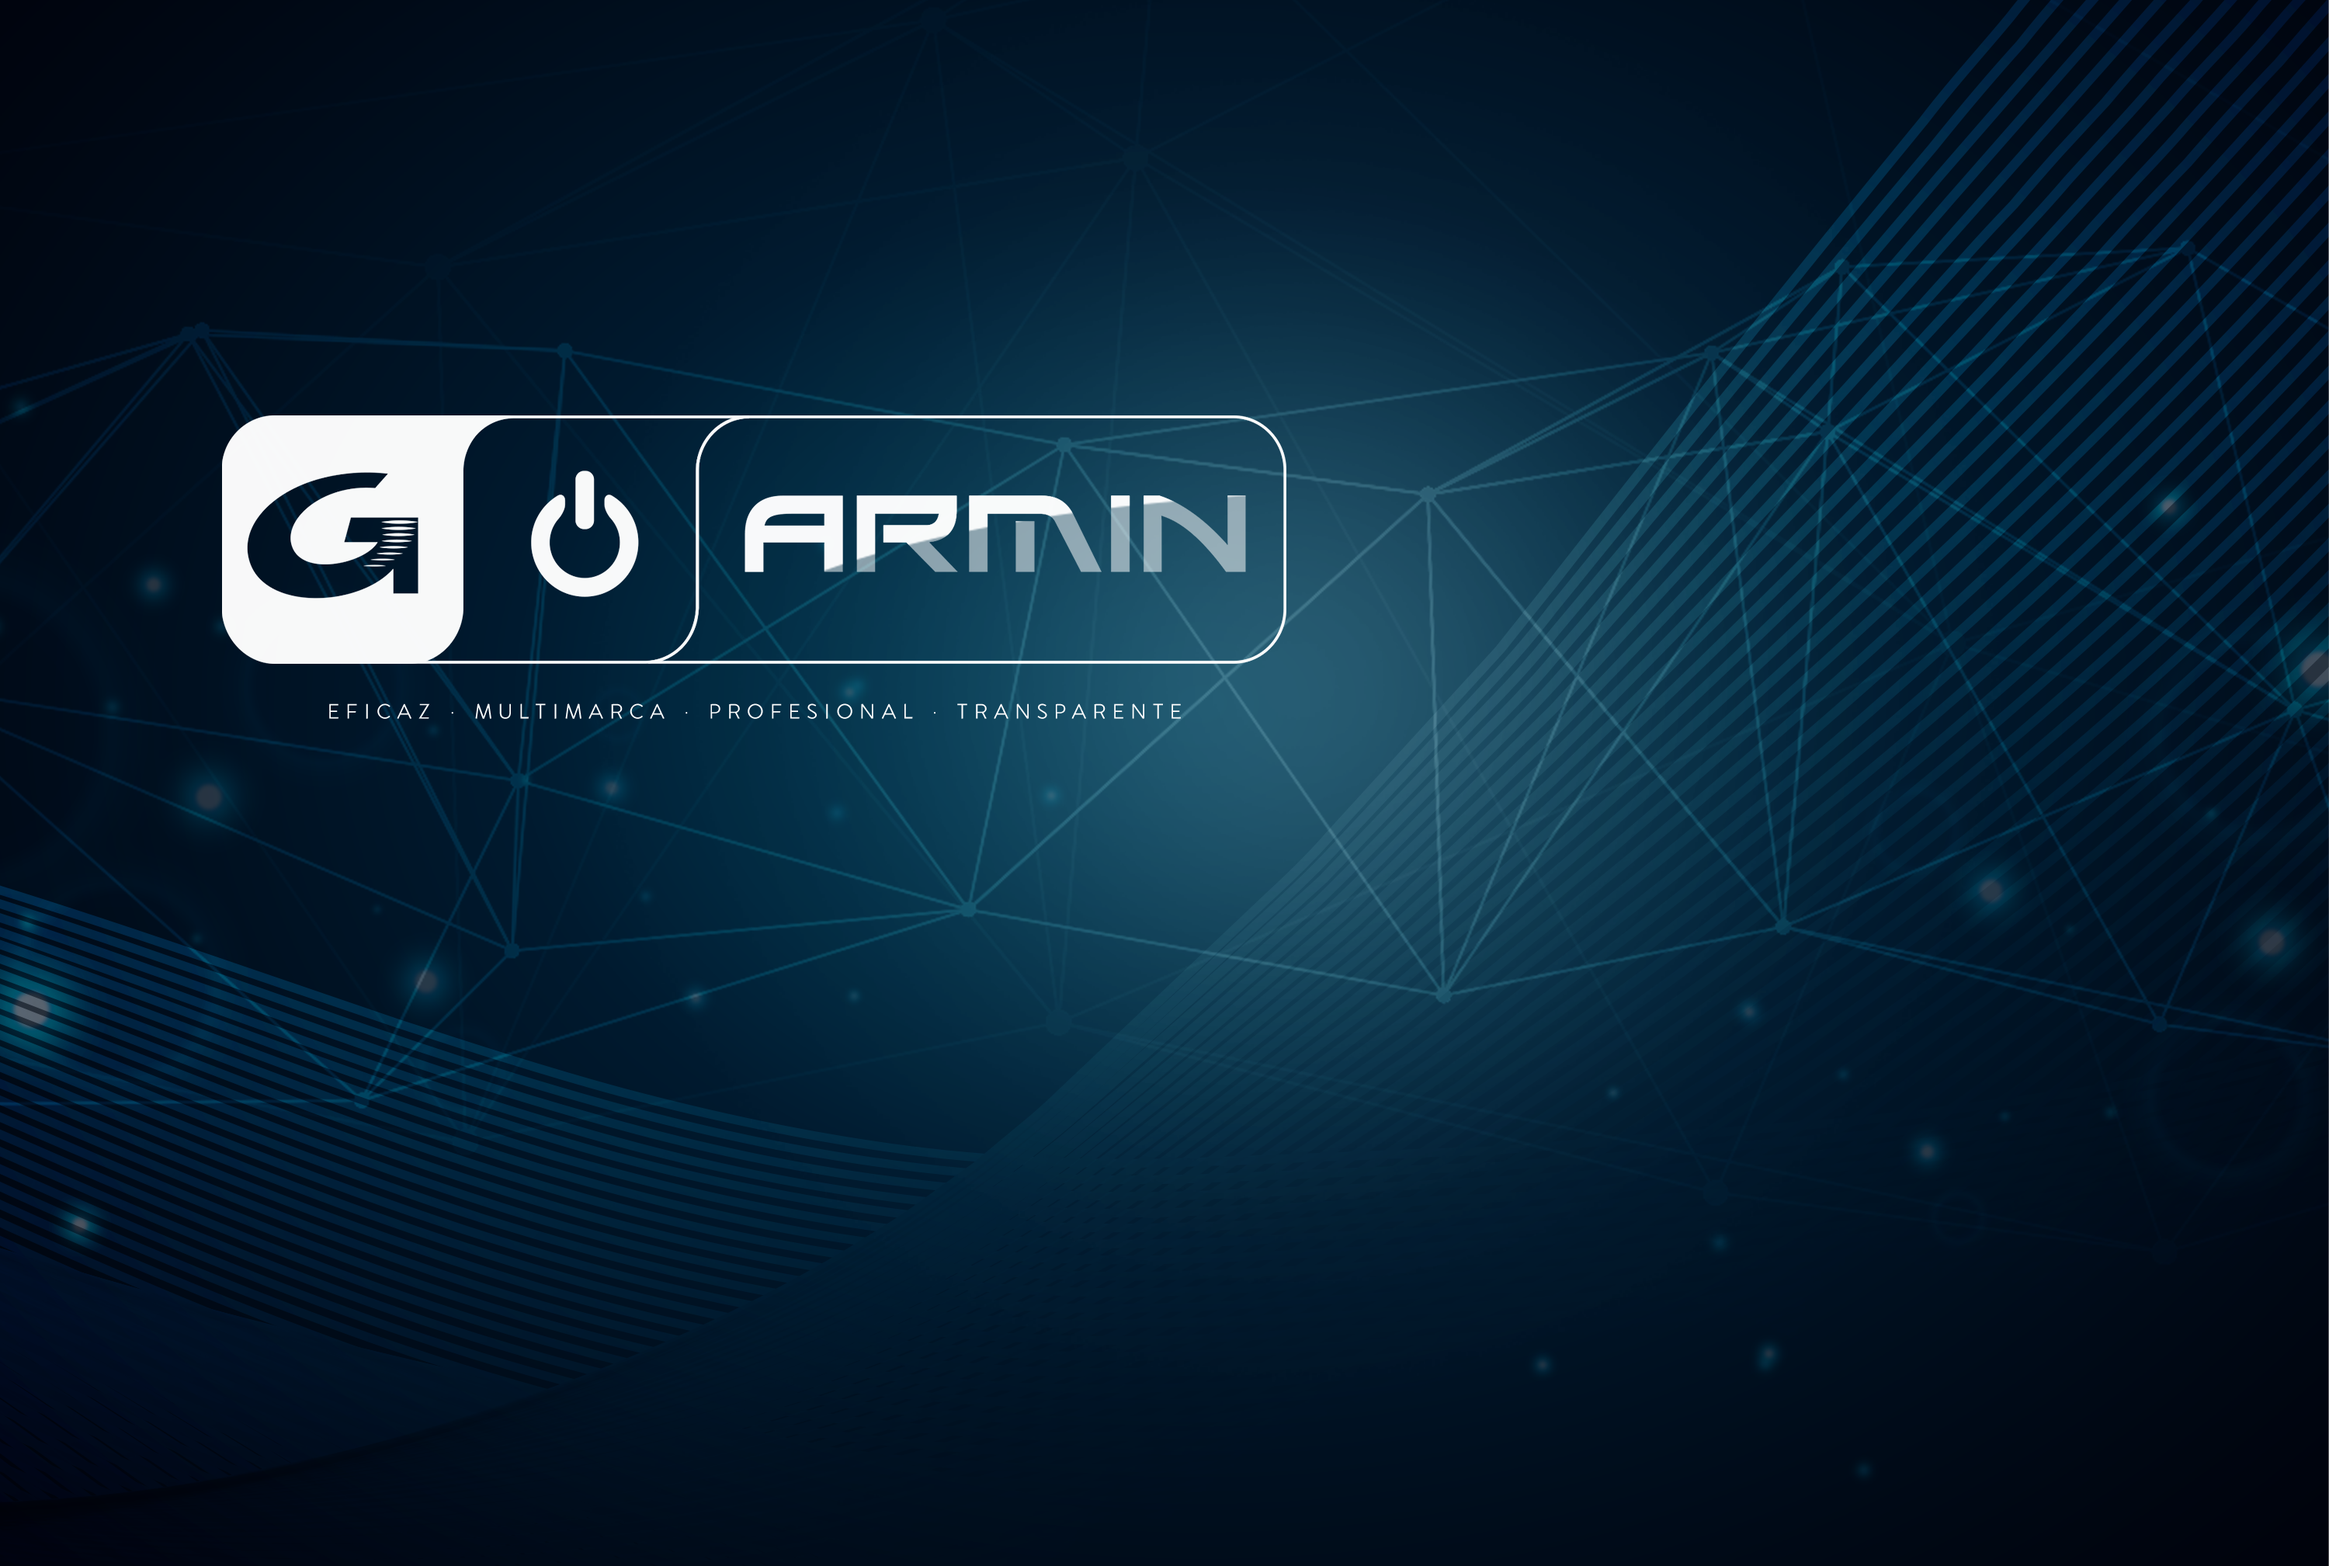
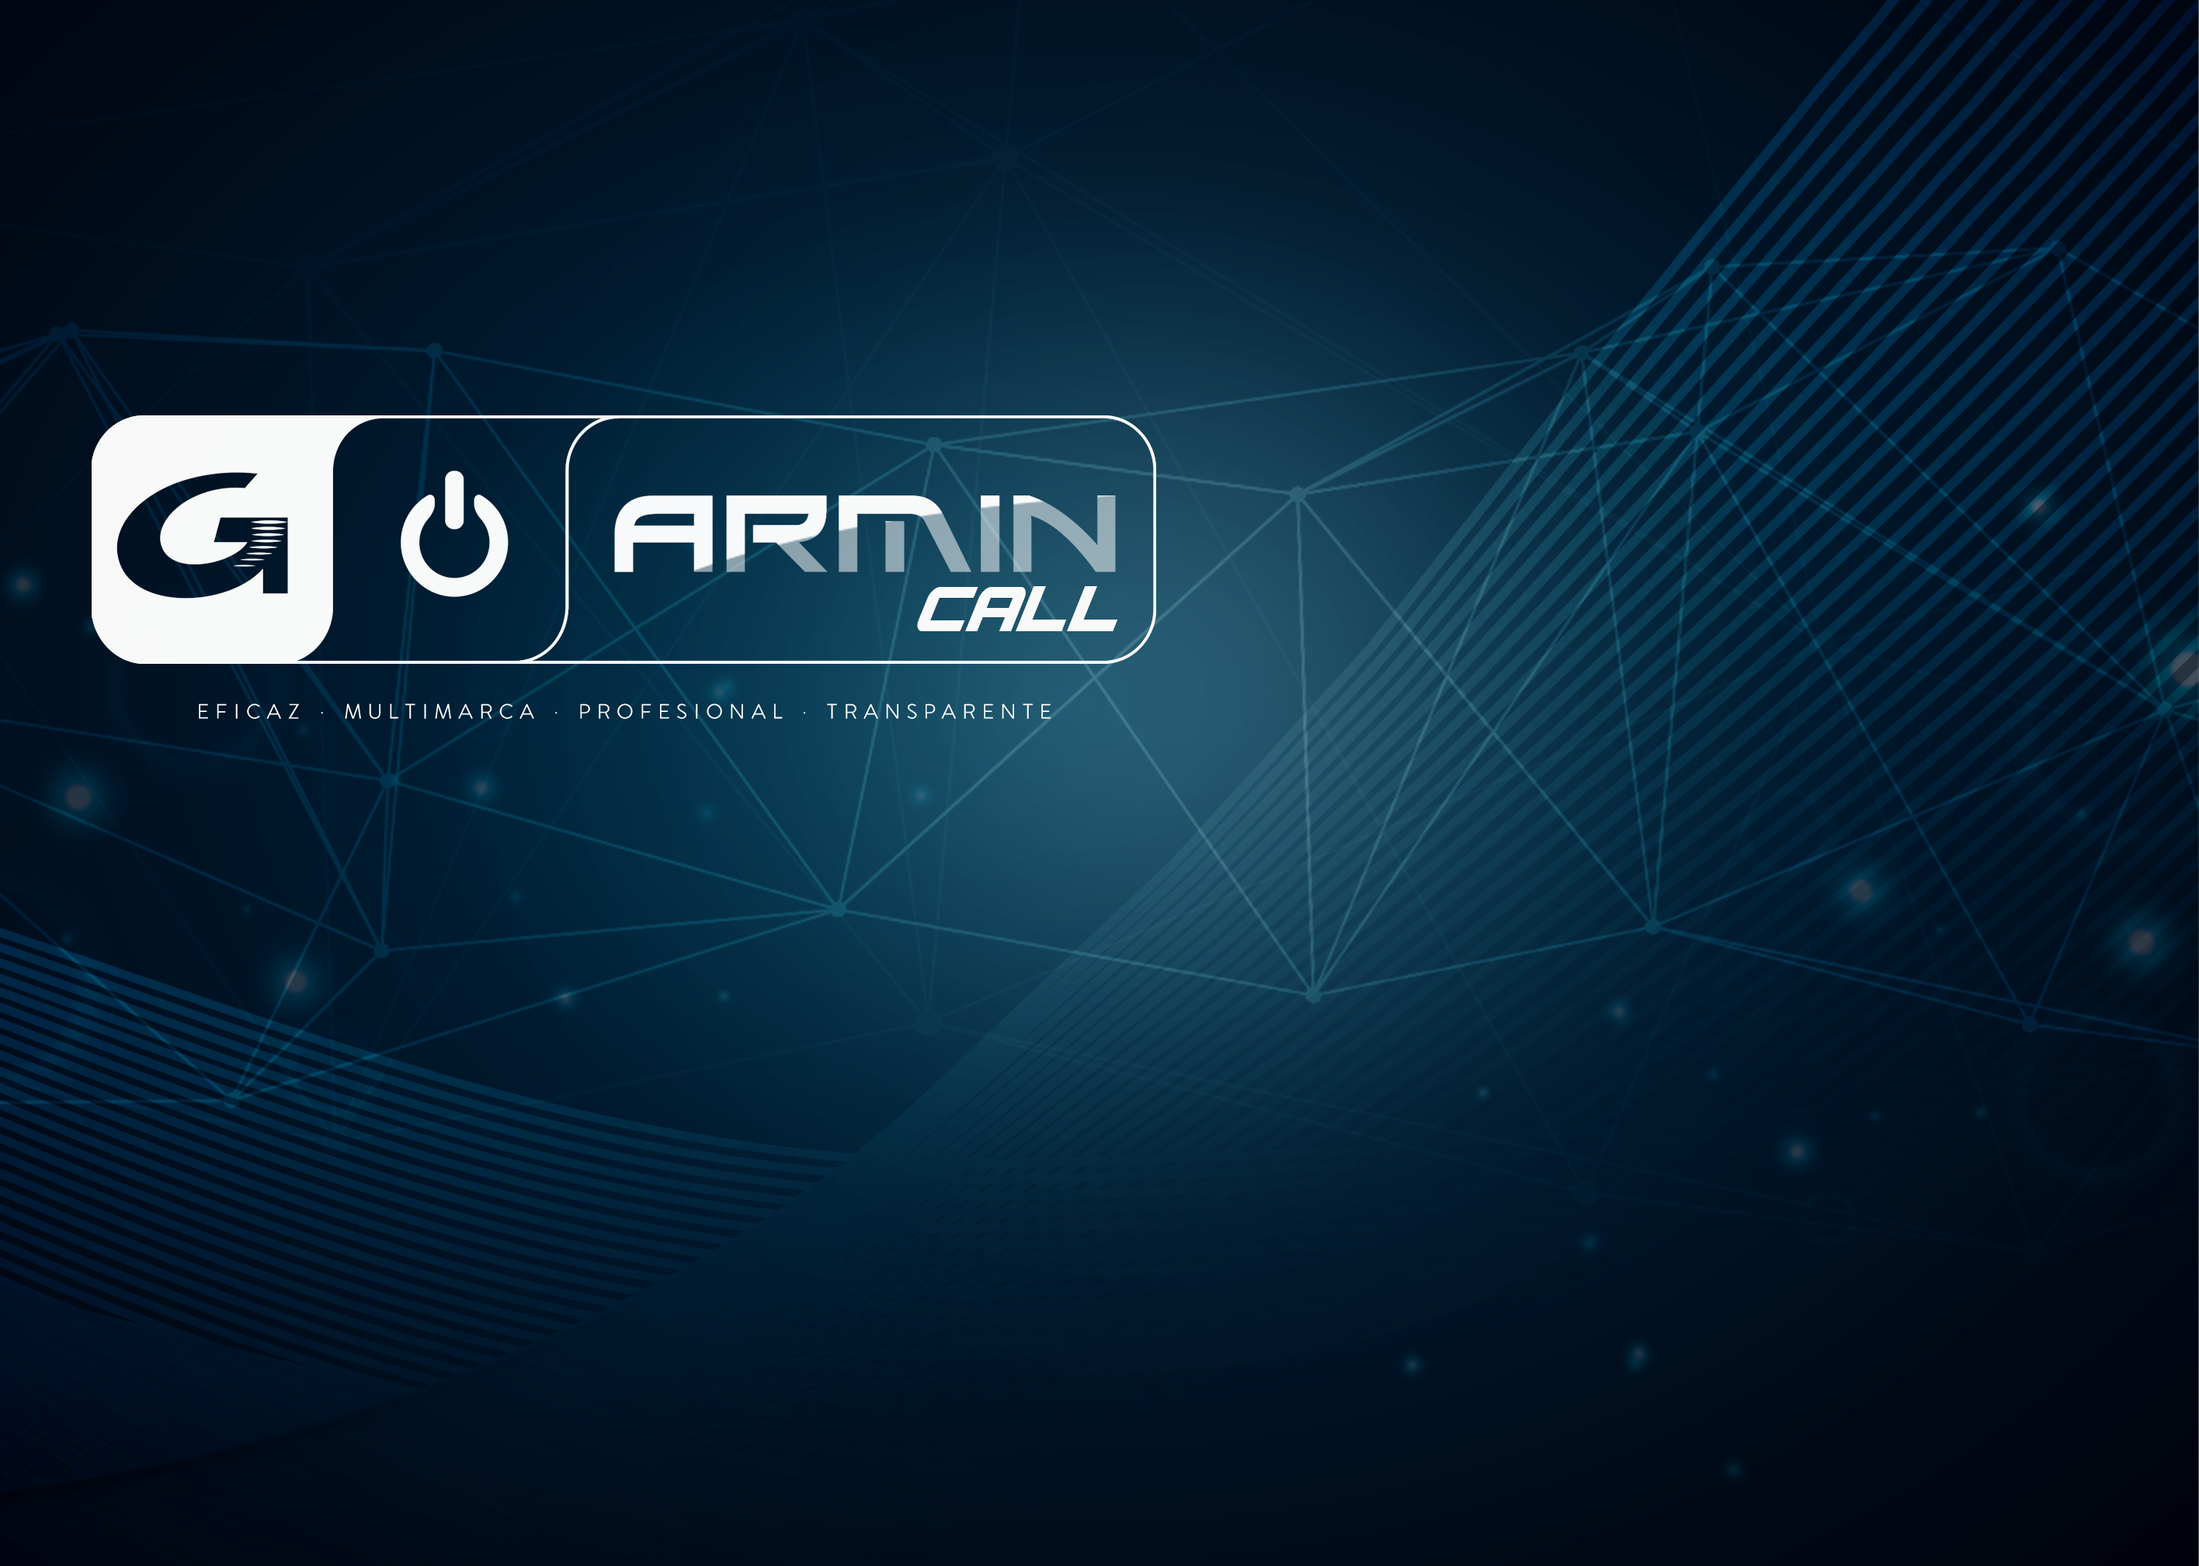
redesign finished

diff --git a/client/src/app/shared/templates/nav-bar.template.html b/client/src/app/shared/templates/nav-bar.template.html
@@ -2,7 +2,9 @@
   <button class="navbar-toggler navbar-toggler-right" type="button" data-toggle="collapse" data-target="#navbarColor01" aria-controls="navbarColor01" aria-expanded="false" aria-label="Toggle navigation">
   <span class="navbar-toggler-icon"></span>
 </button>
-  <a class="navbar-brand" href="#">ArminCall</a>
+  <a class="navbar-brand" routerLink="/dashboard">
+    <img width="240.0rem" class="img-fluid " src="/assets/armincall_logo.png" alt=""> 
+  </a>
 
   <div class="collapse navbar-collapse" id="navbarColor01">
     <ul class="navbar-nav mr-auto">
@@ -53,7 +55,7 @@
         <div style="margin-left: 2.0rem;">
           <a target="_blank" href="http://live.gaues.armin.armiwa.eu/?username=bsebastian&password=armintech"> 
             <i class="icon-lg ion-log-in white align-middle"></i> 
-            <img width="120.0rem" class="img-fluid " src="/assets/armin_logo.png" alt=""> 
+            <img width="100.0rem" class="img-fluid " src="/assets/armin_logo.png" alt=""> 
           </a>
         </div>
 
@@ -64,7 +66,7 @@
 
     <div class="form-inline my-2 my-lg-0">
       <a style="cursor: pointer; color:white"  (click)="logout()"> 
-        <i class="icon-lg ion-log-out align-middle" aria-hidden="true"></i> Cerrar sesión
+        <i class="icon ion-power align-middle" aria-hidden="true"></i> Cerrar sesión
       </a>
     </div>
 

diff --git a/client/src/app/calls/templates/calls.template.html b/client/src/app/calls/templates/calls.template.html
@@ -112,7 +112,7 @@
                         [ngClass]="{'disabled': page === 1}"
                         (click)="prevPage()">
                     <i class="icon-lg ion-ios-arrow-thin-left align-middle"></i> 
-                    Atras
+                    Anterior
                 </button>
                 <button type="button" 
                         class="btn btn-sm btn-outline-primary  float-right"

diff --git a/client/src/assets/css/custom_styles.css b/client/src/assets/css/custom_styles.css
@@ -43,7 +43,7 @@ body {
 }
 
 #workshop-smart-search {
-	width: 20rem;
+	width: 15rem;
 }
 
 a {
